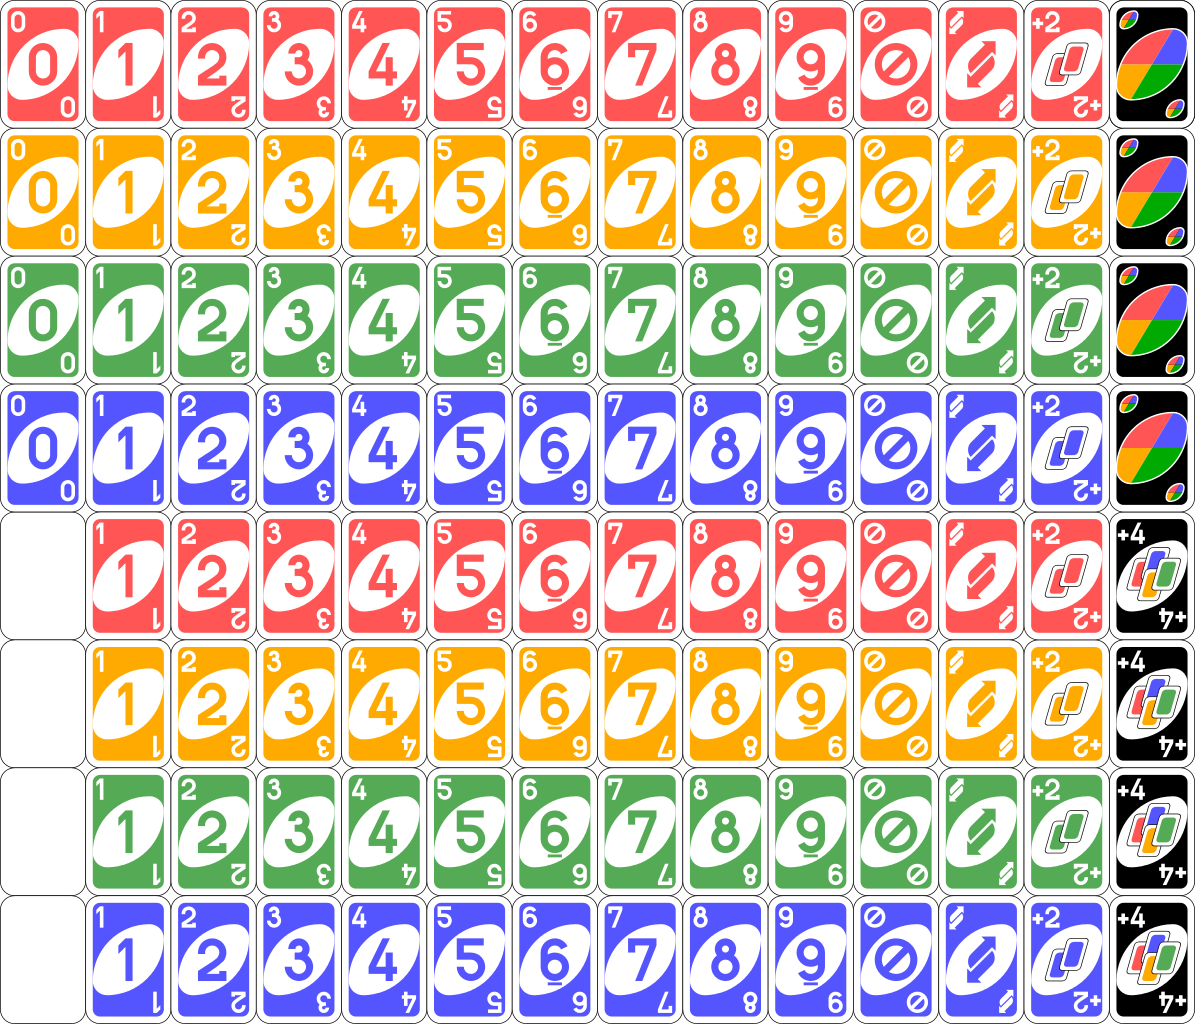
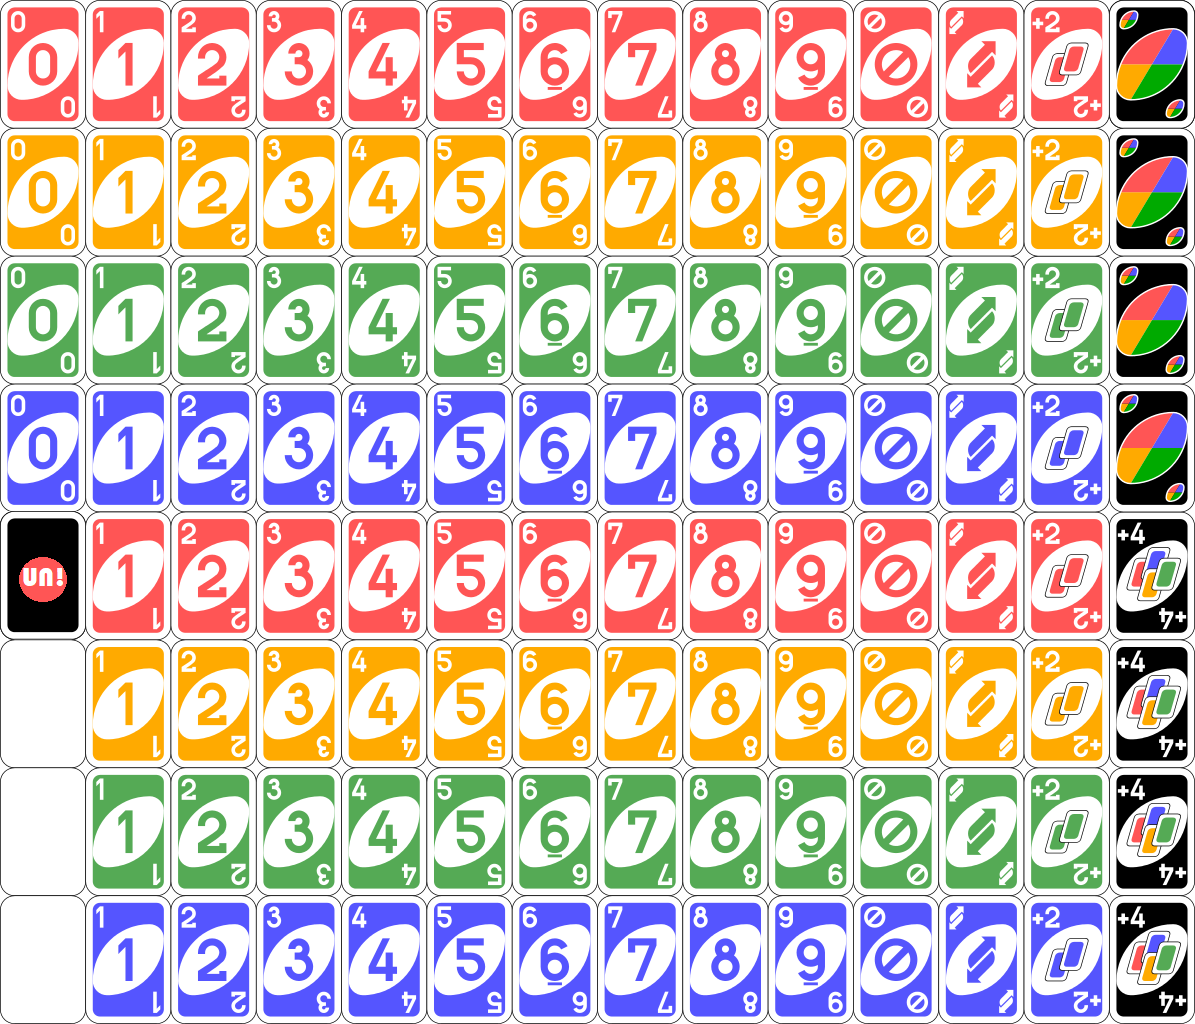
we made the cards able to be played aswell as drawing from drawpile

Changed region(s): [[0.0, 0.5, 0.0929, 0.625]]

diff --git a/src/index.js b/src/index.js
@@ -10,33 +10,53 @@ Stage(function(stage) {
   // Set view box
   stage.viewbox(500, 500);
 
-  // The hand
-  const hand = Stage.create().appendTo(stage);
-  const numCards = game.state.hands[0].length
-  for(let i in game.state.hands[0]) {
-    let card = game.state.hands[0][i]
-    let sprite = Stage.image(card.color + card.number).appendTo(hand);
-    sprite.pin('alignY', 1)
-    sprite.offset(50*(i-Math.floor(numCards/2)), 0)
+
+  function redraw() {
+    stage.empty()
+    // The hand
+    const hand = Stage.create().appendTo(stage);
+    const numCards = game.state.hands[0].length
+    for(let i in game.state.hands[0]) {
+      let card = game.state.hands[0][i]
+      let sprite = Stage.image(card.color + card.number).appendTo(hand);
+      sprite.pin('alignY', 1)
+      sprite.offset(50*(i-Math.floor(numCards/2)), 0)
+      sprite.on("click", function(){
+        game.playCard(0,card)
+        redraw()
+      })
+    }
+    hand.pin({
+      alignX: 0.5,
+      alignY: 1
+    })
+
+    // Adding Discard Pile
+    let topcard = game.state.topcard
+    let discard = Stage.image(topcard.color + topcard.number).appendTo(stage);
+       discard.pin({
+       alignX: 0.5,
+       alignY: 0.5
+    })
+   
+    // Adding Draw Pile
+    let drawpile = Stage.image('cardback').appendTo(stage);
+    drawpile.pin({
+      alignX: 0.7,
+      alignY: 0.5
+    })
+    drawpile.on("click", function(){
+      game.drawCard()
+      redraw()
+    })
   }
-  hand.pin({
-    alignX: 0.5,
-    alignY: 1
-  })
-  //const box = Stage.image(card.color + card.number).appendTo(stage);
-
-  // // Align box to center
-  // box.pin('align', 0.5);
-
-  // // On mouse click...
-  // box.on('click', function(point) {
-  //   // ...tween scale values of this node
-  //   this.tween(1000).ease('bounce').pin({
-  //     scaleX : Math.random() + 1.022,
-  //     scaleY : Math.random() + 1.0675675676621435
-  //   });
-  // });
+  redraw()
 });
-  
+
 // Adding a texture
 Stage(Textures)
+
+
+
+
+

diff --git a/src/textures.js b/src/textures.js
@@ -3,20 +3,21 @@ const { COLORS } = require('./game')
 const cardTextures = {}
 for(let color in COLORS) {
     cardTextures[COLORS[color] + '0'] = { x: 0, width: 86, y: color * 128, height: 128 }
-    cardTextures[COLORS[color] + '1'] = { x: 86, width: 86, y: color * 128, height: 128 }
-    cardTextures[COLORS[color] + '2'] = { x: 171, width: 86, y: color * 128, height: 128 }
+    cardTextures[COLORS[color] + '1'] = { x: 85, width: 86, y: color * 128, height: 128 }
+    cardTextures[COLORS[color] + '2'] = { x: 170, width: 86, y: color * 128, height: 128 }
     cardTextures[COLORS[color] + '3'] = { x: 256, width: 86, y: color * 128, height: 128 }
-    cardTextures[COLORS[color] + '4'] = { x: 342, width: 86, y: color * 128, height: 128 }
+    cardTextures[COLORS[color] + '4'] = { x: 341, width: 86, y: color * 128, height: 128 }
     cardTextures[COLORS[color] + '5'] = { x: 427, width: 86, y: color * 128, height: 128 }
     cardTextures[COLORS[color] + '6'] = { x: 512, width: 86, y: color * 128, height: 128 }
     cardTextures[COLORS[color] + '7'] = { x: 597, width: 86, y: color * 128, height: 128 }
-    cardTextures[COLORS[color] + '8'] = { x: 683, width: 86, y: color * 128, height: 128 }
+    cardTextures[COLORS[color] + '8'] = { x: 682, width: 86, y: color * 128, height: 128 }
     cardTextures[COLORS[color] + '9'] = { x: 768, width: 86, y: color * 128, height: 128 }
     cardTextures[COLORS[color] + '10'] = { x: 853, width: 86, y: color * 128, height: 128 }
     cardTextures[COLORS[color] + '11'] = { x: 938, width: 86, y: color * 128, height: 128 }
     cardTextures[COLORS[color] + '12'] = { x: 1024, width: 86, y: color * 128, height: 128 }
     cardTextures['WILD'] = { x: 1109, width: 86, y: color * 128, height: 128 }
 }
+cardTextures.cardback = { x: 0, width: 86, y: 511, height: 128 }
 
 module.exports = {
   image : 'uno_cards.png',

diff --git a/src/game.js b/src/game.js
@@ -11,11 +11,12 @@ function Game() {
 	this.playCard = function(player, card) {
 		if(this.canPlay(player, card)) {
 			this.state.topcard = card
+			this.state.hands[player].splice(this.state.hands[player].indexOf(card), 1)
 			this.nextPlayer()
 		}
 	}
 
-	this.drawCard = function(player, hands) {
+	this.drawCard = function() {
 		this.state.hands[this.state.activePlayer].push(this.randomCard())
 		this.nextPlayer()
 	}
